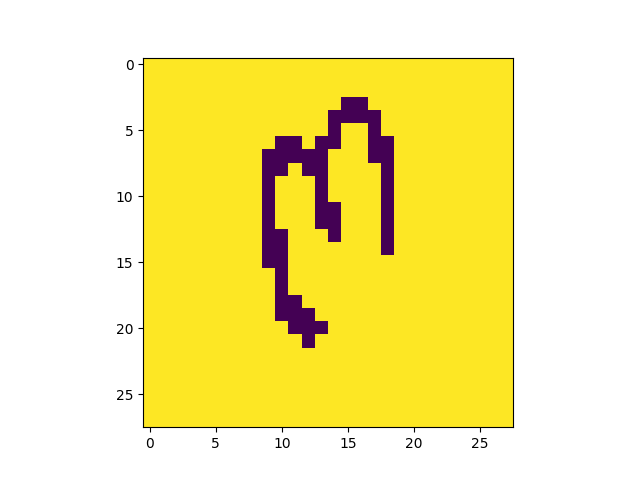
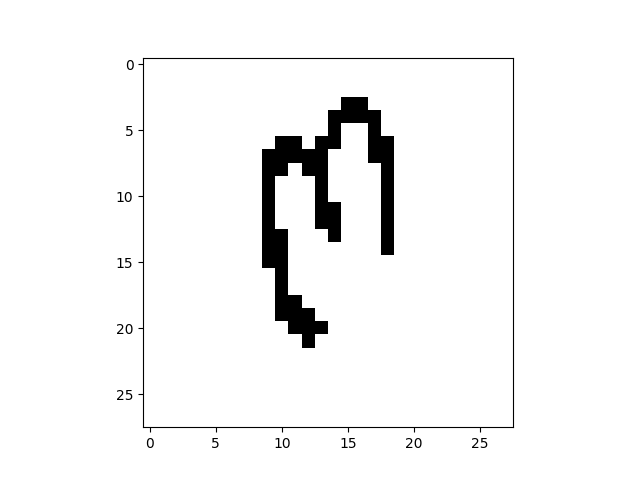
black and white imaging

diff --git a/final/stitch_images.py b/final/stitch_images.py
@@ -5,19 +5,16 @@ from matplotlib import pyplot as plt
 
 
 directory = os.fsencode('data')
-#255 represents a white cell
-#0 represents a black cell
-composite_image_list = [255 for i in range(784)]
+#255 represents a black cell
+#0 represents a white cell
+composite_image_list = [0 for i in range(784)]
 
 for file in os.listdir(directory):
   filename = os.fsdecode(file)
   pixel_extractor = PixelExtractor("data/" + filename, 'g')
   target_pixel_locations = pixel_extractor.extract_target_pixel_location()
   for loc in target_pixel_locations:
-    composite_image_list[loc] = 0
-
-
-
+    composite_image_list[loc] = 255
 
 
 reshaped_composite_image = []
@@ -26,7 +23,7 @@ while n <= len(composite_image_list):
     reshaped_composite_image.append(composite_image_list[n-28:n])
     n+=28
 
-plt.imshow(reshaped_composite_image, interpolation='nearest')
+plt.imshow(reshaped_composite_image, cmap='Greys',  interpolation='nearest')
 plt.savefig('MNIST_IMAGE.png')#save MNIST image
 plt.show()#Show / plot that image
 
